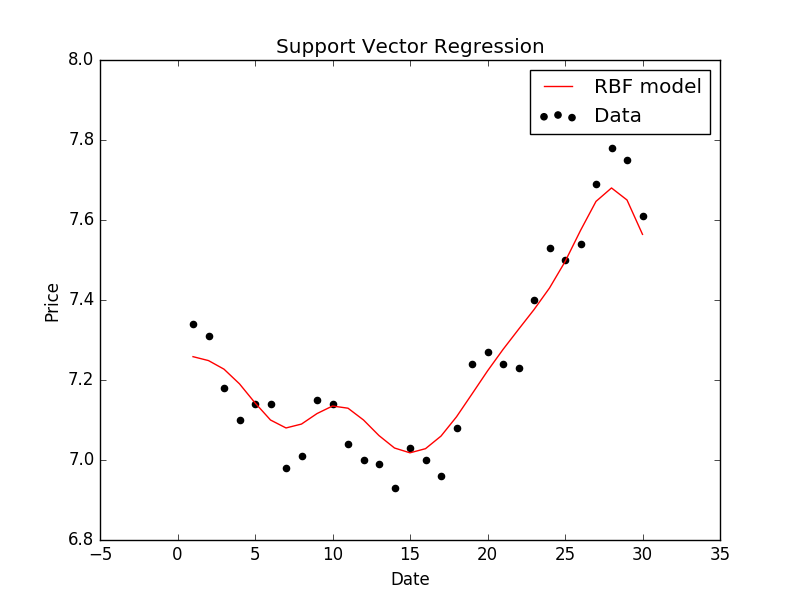
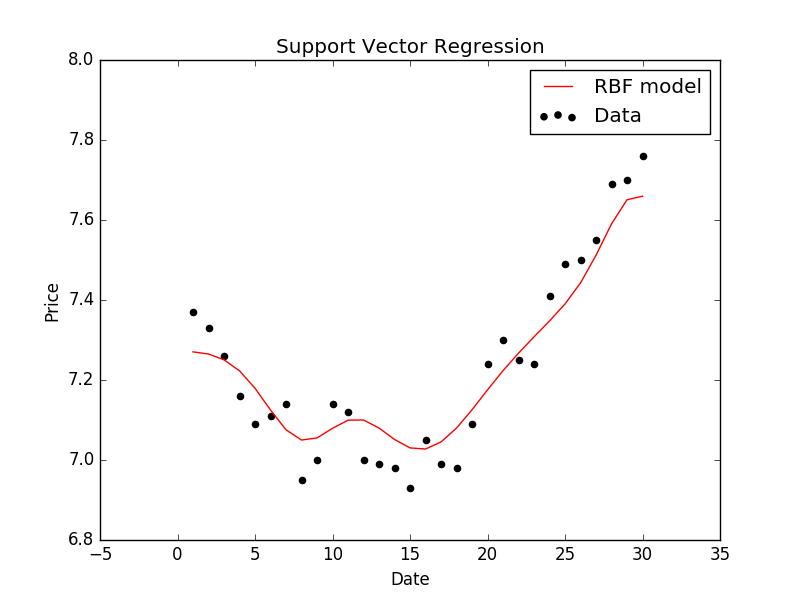
predict open price

diff --git a/demo.py b/demo.py
@@ -20,7 +20,7 @@ def get_data(filename):
 		for row in csvFileReader:
 			#dates.append(int(row[0].split('-')[2]))
 			dates.append(int(row[0]))
-			prices.append(float(row[4]))
+			prices.append(float(row[1]))
 	return
 
 def predict_price(dates, prices, x):
